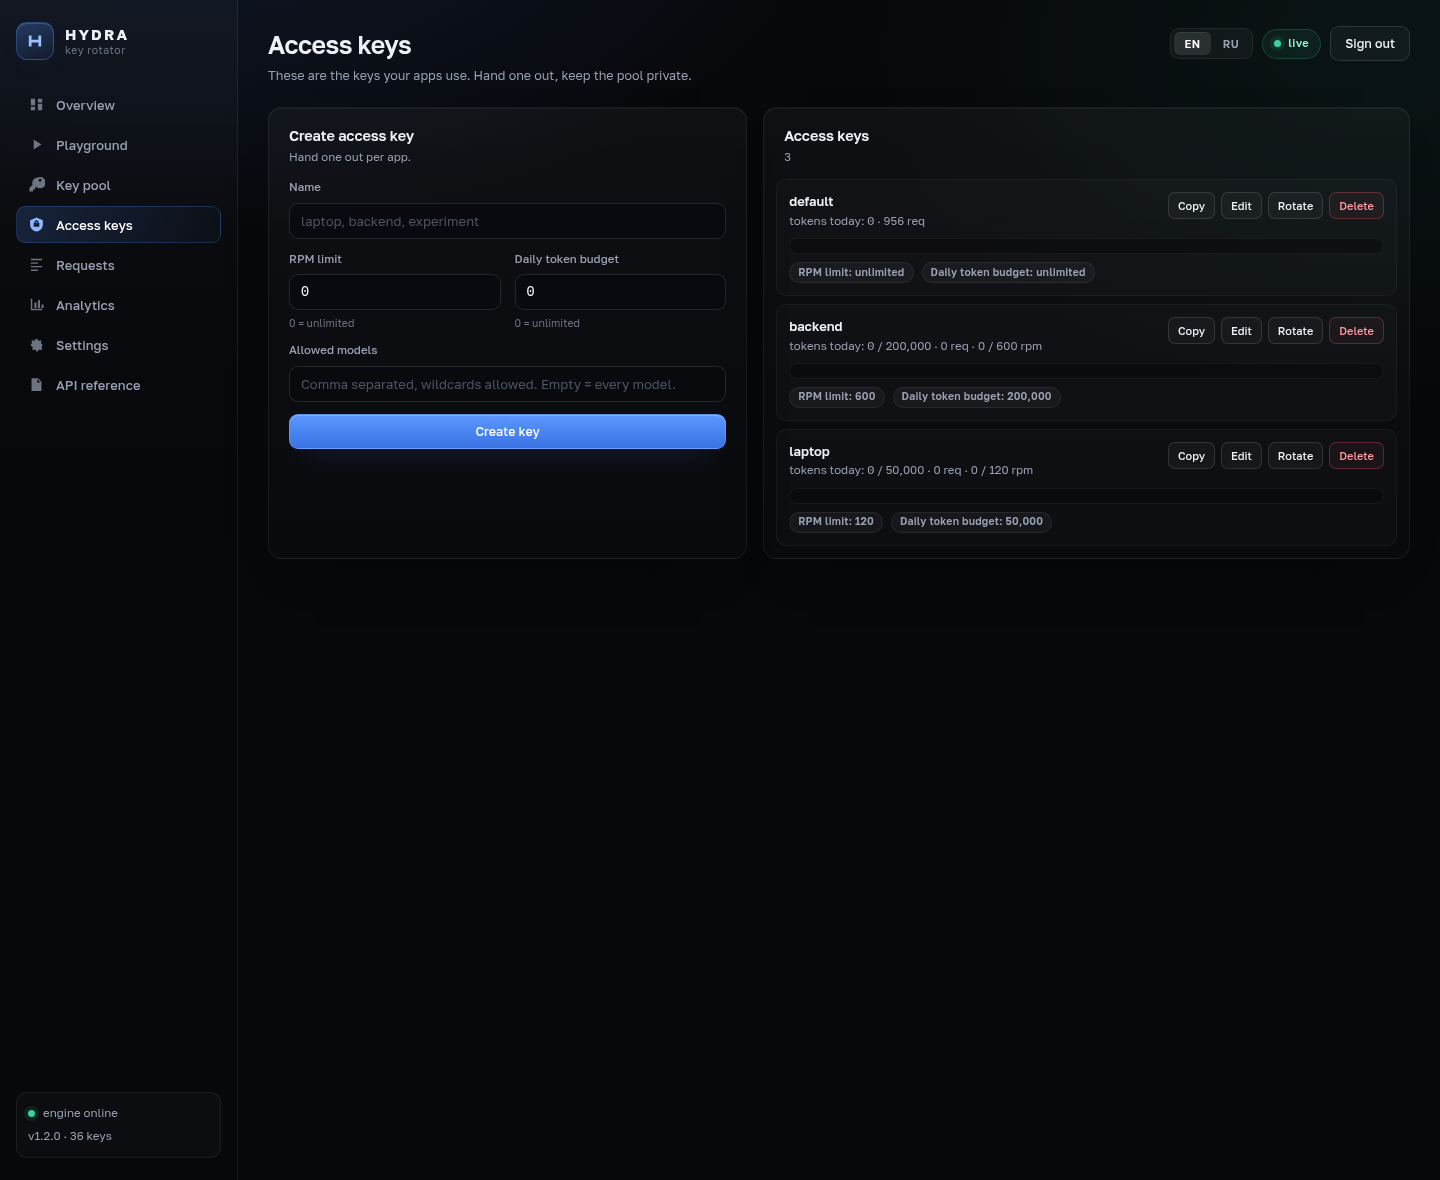
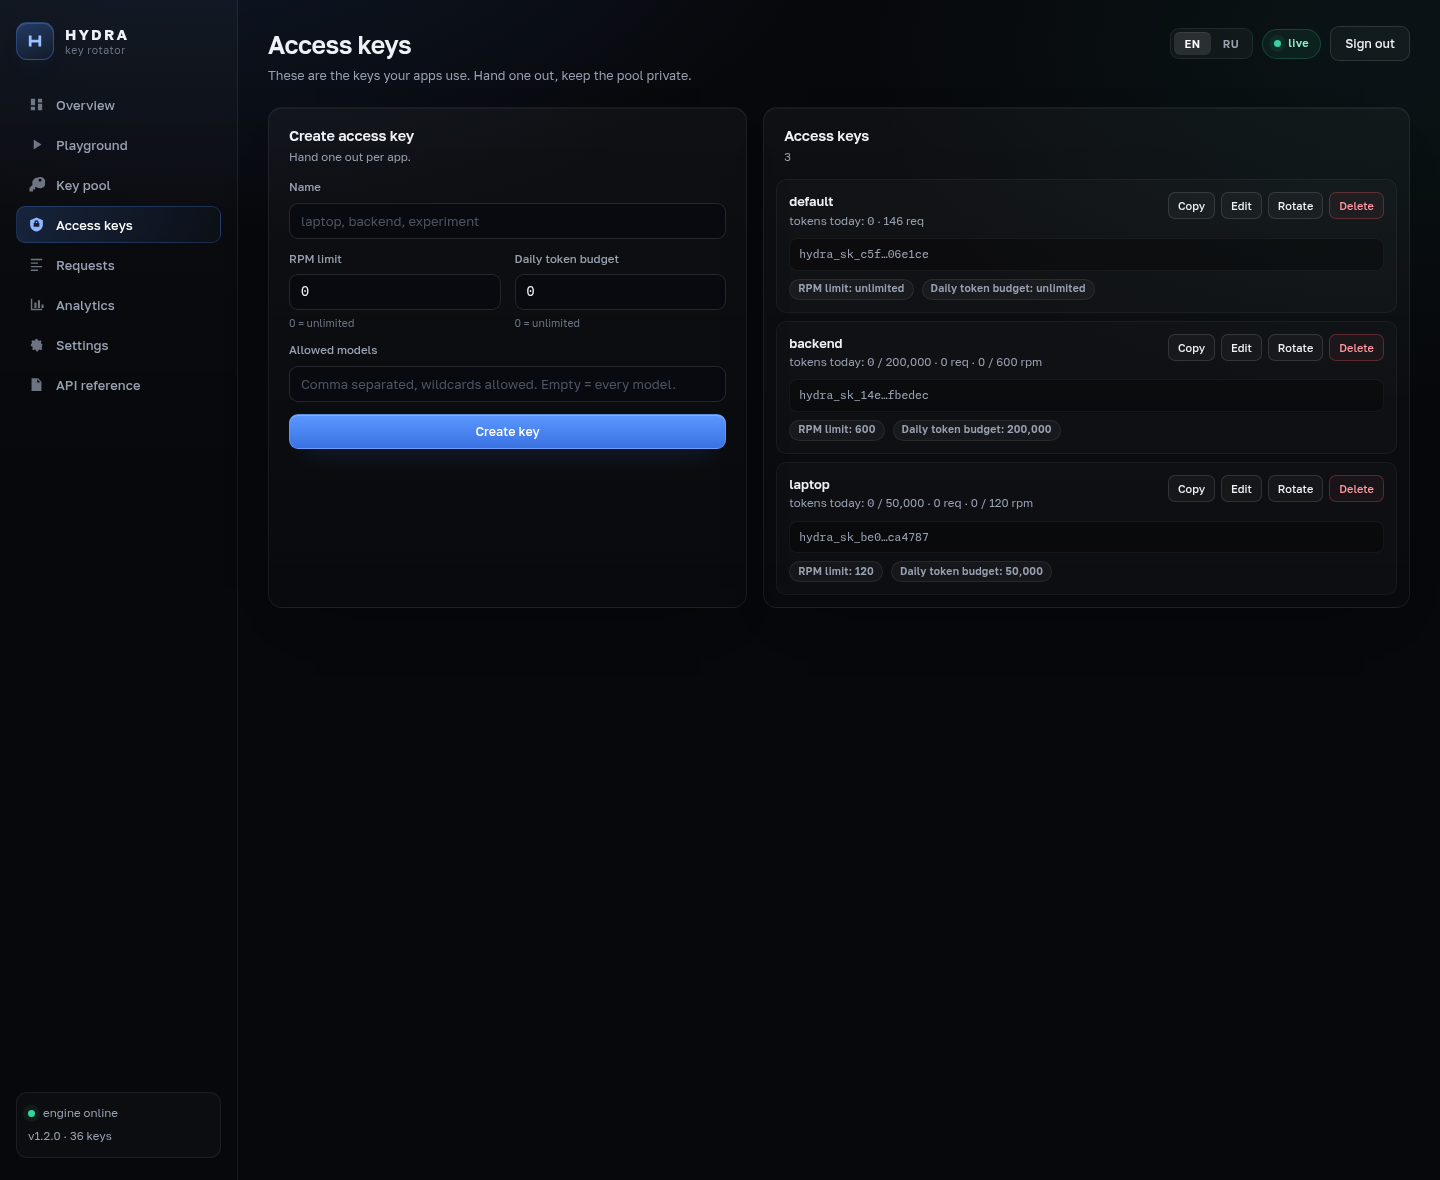
Show masked access keys in the list and cover reveal in the UI suite

Changed region(s): [[0.5312, 0.2136, 0.75, 0.4881], [0.8125, 0.3661, 0.9688, 0.4271], [0.8125, 0.2746, 0.9688, 0.3051]]

diff --git a/test/ui.js b/test/ui.js
@@ -122,6 +122,16 @@ async function main() {
 
   check('no console errors on navigation', errors.length === 0, errors.slice(0, 3).join(' | '));
 
+  // access keys are masked, copy pulls the secret on demand
+  await evaluate(`document.querySelector('.nav-item[data-view="access"]').click()`);
+  await sleep(500);
+  const masked = await evaluate(`document.querySelector('.client-key span').textContent`);
+  check('access keys are masked in the list', masked.includes('…'), masked);
+  await evaluate(`document.querySelector('button[data-client="copy"]').click()`);
+  await sleep(900);
+  const copyToast = await evaluate(`[...document.querySelectorAll('.toast')].map(t=>t.textContent).join(' | ')`);
+  check('copy reveals the secret on demand', /copied|скопировано/i.test(copyToast), copyToast.slice(0, 60));
+
   // playground
   await evaluate(`document.querySelector('.nav-item[data-view="playground"]').click()`);
   await sleep(300);

diff --git a/public/app.js b/public/app.js
@@ -428,7 +428,7 @@ function renderAccess() {
           <button class="btn btn-sm" data-client="rotate" data-id="${esc(c.id)}">${esc(t('access.rotate'))}</button>
           <button class="btn btn-sm btn-danger-ghost" data-client="delete" data-id="${esc(c.id)}">${esc(t('action.delete'))}</button>
         </div>
-        <div class="client-key"><span>${esc(c.key)}</span></div>
+        <div class="client-key"><span>${esc(c.masked || '—')}</span></div>
         <div class="client-stats">
           <span class="chip chip-mut">${esc(t('access.rpm'))}: ${c.rpm || t('common.unlimited')}</span>
           <span class="chip chip-mut">${esc(t('access.daily'))}: ${c.dailyTokens ? num(c.dailyTokens) : t('common.unlimited')}</span>

diff --git a/README.md b/README.md
@@ -6,7 +6,7 @@
   <a href="LICENSE"><img alt="license" src="https://img.shields.io/badge/license-MIT-4C8DFF?style=flat-square"></a>
   <img alt="node" src="https://img.shields.io/badge/node-%E2%89%A520-3C873A?style=flat-square">
   <img alt="dependencies" src="https://img.shields.io/badge/dependencies-0-38D39F?style=flat-square">
-  <img alt="tests" src="https://img.shields.io/badge/tests-96%20passing-38D39F?style=flat-square">
+  <img alt="tests" src="https://img.shields.io/badge/tests-98%20passing-38D39F?style=flat-square">
   <img alt="i18n" src="https://img.shields.io/badge/panel-EN%20%7C%20RU-8B93A7?style=flat-square">
   <a href="https://github.com/hydradevc/rotation/actions/workflows/ci.yml"><img alt="ci" src="https://github.com/hydradevc/rotation/actions/workflows/ci.yml/badge.svg"></a>
 </p>
@@ -296,7 +296,7 @@ All of it lives in **Settings** in the panel.
 
 ```bash
 npm test            # 36 backend + 30 security checks
-npm run test:ui     # 30 panel checks in headless Chromium
+npm run test:ui     # 32 panel checks in headless Chromium
 npm run test:security  # encryption, cookies, CSRF, budgets, aborts
 npm run bench       # 100 keys, 2,000 requests
 ```
@@ -376,6 +376,6 @@ node server.js        # зависимостей нет, npm install не нуж
 с лимитами, песочница, аналитика с перцентилями, `GET /metrics` для Prometheus,
 `GET /openapi.json`, вебхуки в Discord/Slack, бэкап и восстановление, панель на русском.
 
-Тесты: `npm test` (36 бэкенд + 30 безопасность), `npm run test:ui` (30 проверок), `npm run bench`.
+Тесты: `npm test` (36 бэкенд + 30 безопасность), `npm run test:ui` (32 проверки), `npm run bench`.
 
 </details>
